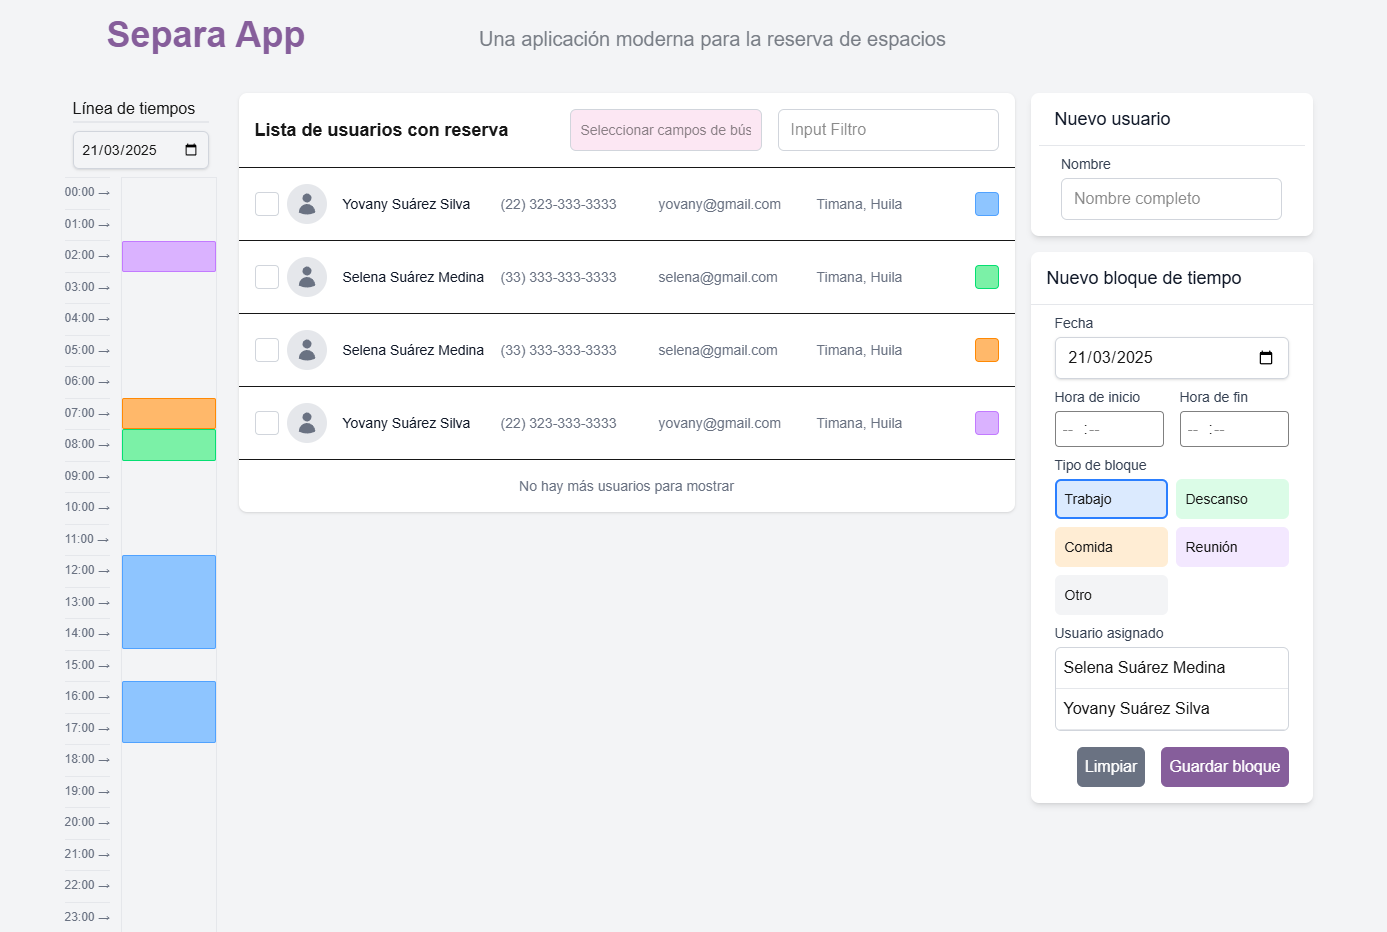
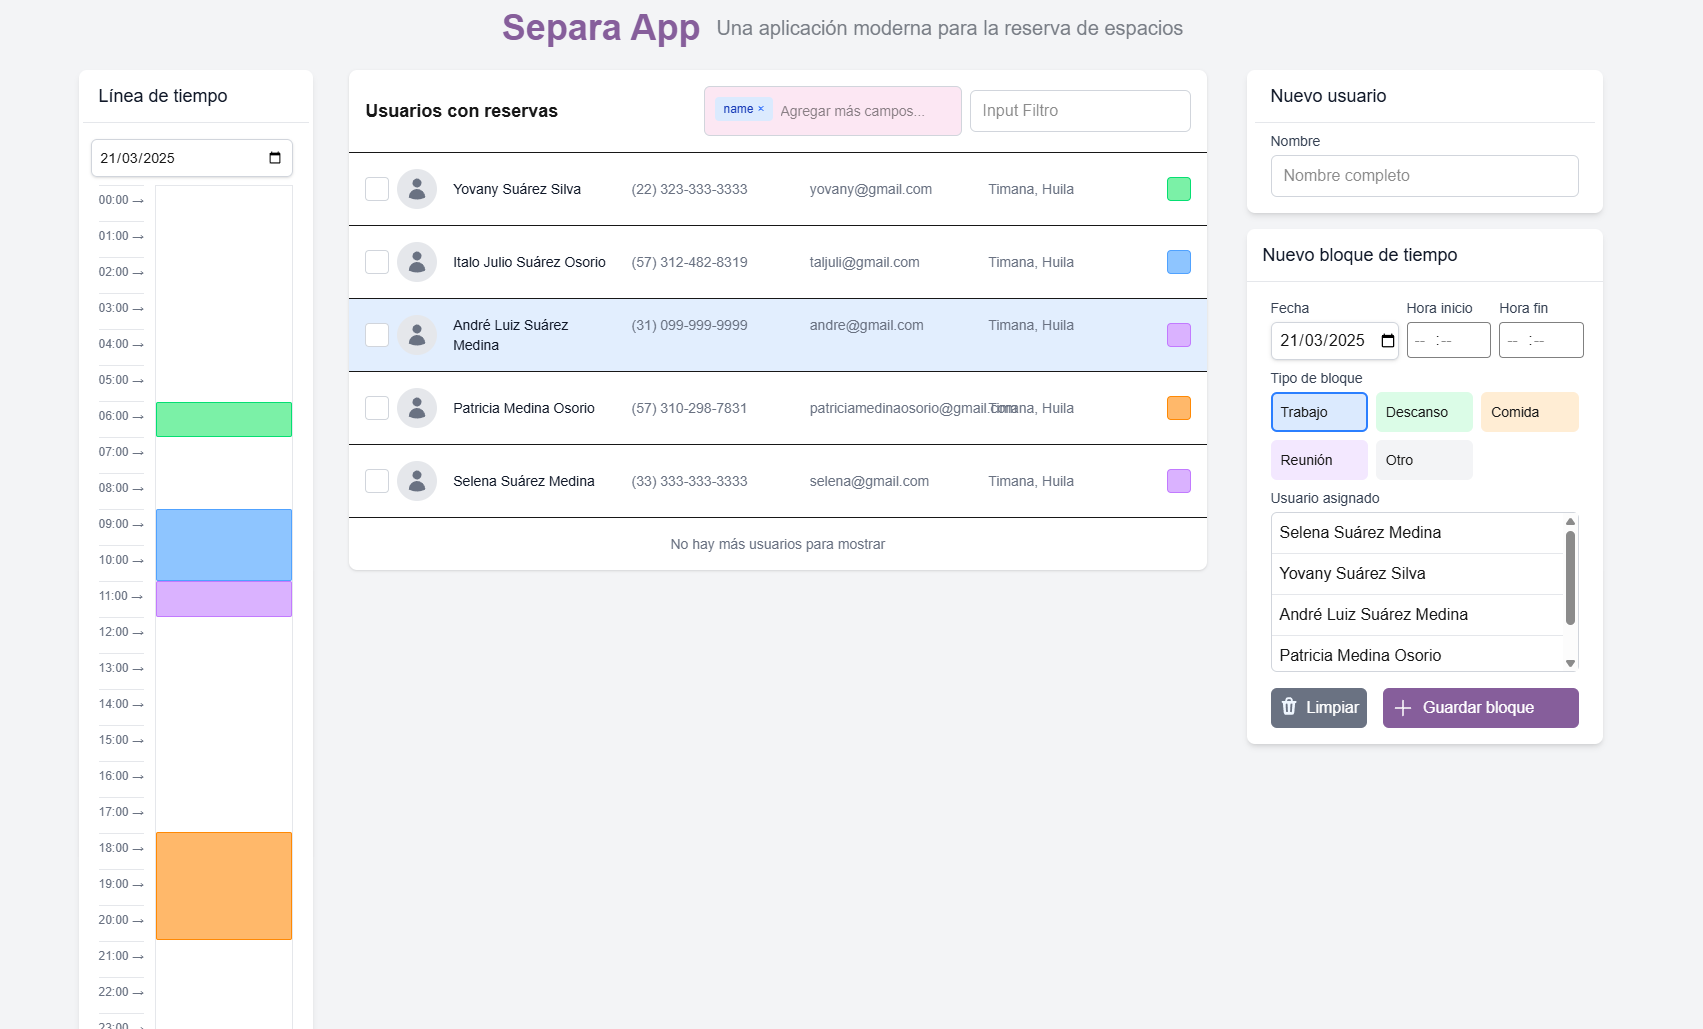
refactor: remove console logs and improve UI components
- Removed unnecessary console.log statements across multiple files to clean up the codebase.
- Enhanced UI components in NewUserForm, NewBlockForm, and TimelineBar for better user experience and responsiveness.
- Adjusted layout and styling in the dashboard page for improved readability and consistency.

diff --git a/src/components/dashboard/NewBlockForm.tsx b/src/components/dashboard/NewBlockForm.tsx
@@ -8,6 +8,9 @@ import 'react-clock/dist/Clock.css';
 import { getCurrentDate, combineDateAndTime, dateToLocalISOString, getNextDayDate } from '@/utils/dateUtils';
 import useUI from '@/context/UIContext';
 import Card from '../ui/Card';
+import { CheckIcon, PlusIcon } from '@heroicons/react/24/solid';
+import { TrashIcon } from '@heroicons/react/16/solid';
+import { DocumentPlusIcon } from '@heroicons/react/16/solid';
 
 interface FormData {
     startTime: string;
@@ -209,7 +212,6 @@ const NewBlockForm: React.FC = () => {
 
     const handleSubmit = async (e: React.FormEvent) => {
         e.preventDefault();
-        console.log('Formulario enviado');
 
         if (!validateForm()) {
             showNotification('Por favor, corrija los errores en el formulario', 'error');
@@ -229,7 +231,6 @@ const NewBlockForm: React.FC = () => {
                 style: formData.style
             };
 
-            console.log('Datos del bloque a crear:', blockData);
             await createBlock(blockData);
 
             showNotification('Bloque de tiempo creado exitosamente', 'success');
@@ -261,78 +262,92 @@ const NewBlockForm: React.FC = () => {
                 />
 
                 <form onSubmit={handleSubmit} className="space-y-2 px-2">
-
-
-                    <div className="flex space-x-2">
-                        <div className='flex-1'>
-                            <label htmlFor="date" className="block text-sm font-medium text-gray-700 mb-1">
-                                Fecha
-                            </label>
-                            <input
-                                type="date"
-                                id="date"
-                                name="date"
-                                value={formData.date}
-                                onChange={handleChange}
-                                className={`w-32 pl-2 mr-0 py-1.5 border ${errors.date ? 'border-red-500' : 'border-gray-300'} rounded-md shadow-sm focus:outline-none focus:ring-blue-500 focus:border-blue-500`}
-                            />
-                            {errors.date && <p className="mt-1 text-xs text-red-500">{errors.date}</p>}
+                    <div className="flex flex-col gap-2">
+                        <div className="flex justify-center md:hidden lg:hidden">
+                            <div className='w-full md:flex-1'>
+                                <label htmlFor="date" className="block text-sm font-medium text-gray-700 mb-1">
+                                    Fecha
+                                </label>
+                                <input
+                                    type="date"
+                                    id="date"
+                                    name="date"
+                                    value={formData.date}
+                                    onChange={handleChange}
+                                    className={`w-full md:w-32 pl-2 mr-0 py-1.5 border ${errors.date ? 'border-red-500' : 'border-gray-300'} rounded-md shadow-sm focus:outline-none focus:ring-blue-500 focus:border-blue-500`}
+                                />
+                                {errors.date && <p className="mt-1 text-xs text-red-500">{errors.date}</p>}
+                            </div>
                         </div>
 
-                        <div className="flex-1">
-                            <label htmlFor="startTime" className="block text-sm font-medium text-gray-700 mb-1">
-                                Hora inicio
-                            </label>
-                            <TimePicker
-                                onChange={(value) => {
-                                    handleChange({
-                                        target: { name: 'startTime', value: value ?? '' }
-                                    } as React.ChangeEvent<HTMLInputElement>);
+                        <div className="flex flex-row gap-2">
+                            <div className='hidden md:block flex-1'>
+                                <label htmlFor="date" className="block text-sm font-medium text-gray-700 mb-1">
+                                    Fecha
+                                </label>
+                                <input
+                                    type="date"
+                                    id="date"
+                                    name="date"
+                                    value={formData.date}
+                                    onChange={handleChange}
+                                    className={`w-32 pl-2 mr-0 py-1.5 border ${errors.date ? 'border-red-500' : 'border-gray-300'} rounded-md shadow-sm focus:outline-none focus:ring-blue-500 focus:border-blue-500`}
+                                />
+                                {errors.date && <p className="mt-1 text-xs text-red-500">{errors.date}</p>}
+                            </div>
 
-                                    // Si el valor tiene formato HH:mm (5 caracteres), mover el foco al siguiente campo
-                                    if (value && value.length === 5 && !isCurrentDate) {
-                                        // Usar setTimeout para asegurar que el cambio de estado se complete primero
-                                        setTimeout(() => {
-                                            if (endTimePickerRef.current) {
-                                                // Acceder al input dentro del componente TimePicker
-                                                const inputElement = endTimePickerRef.current.querySelector('input');
-                                                if (inputElement) {
-                                                    inputElement.focus();
-                                                }
-                                            }
-                                        }, 10);
-                                    }
-                                }}
-                                value={formData.startTime}
-                                format="HH:mm"
-                                disableClock={true}
-                                clearIcon={null}
-                                disabled={isCurrentDate}
-                                className={`${errors.startTime ? 'border-red-500' : 'border-gray-300'} ${isCurrentDate ? 'opacity-50 cursor-not-allowed' : ''}`}
-                            />
-                            {errors.startTime && <p className="mt-1 text-xs text-red-500">{errors.startTime}</p>}
-                        </div>
-
-                        <div className="flex-1">
-                            <label htmlFor="endTime" className="block text-sm font-medium text-gray-700 mb-1">
-                                Hora fin
-                            </label>
-                            <div ref={endTimePickerRef}>
+                            <div className="flex-1">
+                                <label htmlFor="startTime" className="block text-sm font-medium text-gray-700 mb-1">
+                                    Hora inicio
+                                </label>
                                 <TimePicker
                                     onChange={(value) => {
                                         handleChange({
-                                            target: { name: 'endTime', value: value ?? '' }
+                                            target: { name: 'startTime', value: value ?? '' }
                                         } as React.ChangeEvent<HTMLInputElement>);
+
+                                        if (value && value.length === 5 && !isCurrentDate) {
+                                            setTimeout(() => {
+                                                if (endTimePickerRef.current) {
+                                                    const inputElement = endTimePickerRef.current.querySelector('input');
+                                                    if (inputElement) {
+                                                        inputElement.focus();
+                                                    }
+                                                }
+                                            }, 10);
+                                        }
                                     }}
-                                    value={formData.endTime}
+                                    value={formData.startTime}
                                     format="HH:mm"
                                     disableClock={true}
                                     clearIcon={null}
                                     disabled={isCurrentDate}
-                                    className={`min-w-full ${errors.endTime ? 'border-red-500' : 'border-gray-300'} ${isCurrentDate ? 'opacity-50 cursor-not-allowed' : ''}`}
+                                    className={`${errors.startTime ? 'border-red-500' : 'border-gray-300'} ${isCurrentDate ? 'opacity-50 cursor-not-allowed' : ''}`}
                                 />
+                                {errors.startTime && <p className="mt-1 text-xs text-red-500">{errors.startTime}</p>}
                             </div>
-                            {errors.endTime && <p className="mt-1 text-xs text-red-500">{errors.endTime}</p>}
+
+                            <div className="flex-1">
+                                <label htmlFor="endTime" className="block text-sm font-medium text-gray-700 mb-1">
+                                    Hora fin
+                                </label>
+                                <div ref={endTimePickerRef}>
+                                    <TimePicker
+                                        onChange={(value) => {
+                                            handleChange({
+                                                target: { name: 'endTime', value: value ?? '' }
+                                            } as React.ChangeEvent<HTMLInputElement>);
+                                        }}
+                                        value={formData.endTime}
+                                        format="HH:mm"
+                                        disableClock={true}
+                                        clearIcon={null}
+                                        disabled={isCurrentDate}
+                                        className={`min-w-full ${errors.endTime ? 'border-red-500' : 'border-gray-300'} ${isCurrentDate ? 'opacity-50 cursor-not-allowed' : ''}`}
+                                    />
+                                </div>
+                                {errors.endTime && <p className="mt-1 text-xs text-red-500">{errors.endTime}</p>}
+                            </div>
                         </div>
                     </div>
 
@@ -340,7 +355,7 @@ const NewBlockForm: React.FC = () => {
                         <label htmlFor="style" className="block text-sm font-medium text-gray-700 mb-1">
                             Tipo de bloque
                         </label>
-                        <div className="grid grid-cols-2 gap-2 mb-2">
+                        <div className="grid grid-cols-3 gap-2 mb-2">
                             {blockStyles.map(style => (
                                 <div
                                     key={style.id}
@@ -367,9 +382,12 @@ const NewBlockForm: React.FC = () => {
                                     <div
                                         key={user._id}
                                         onClick={() => !isCurrentDate && handleUserSelect(user)}
-                                        className={`p-2 border-b border-gray-200 ${!isCurrentDate ? 'cursor-pointer hover:bg-gray-50' : 'cursor-not-allowed'} ${selectedUser?._id === user._id ? 'bg-blue-50' : ''}`}
+                                        className={`p-2 border-b border-gray-200 ${!isCurrentDate ? 'cursor-pointer hover:bg-gray-50' : 'cursor-not-allowed'} ${selectedUser?._id === user._id ? 'bg-blue-100' : ''} flex justify-between items-center`}
                                     >
                                         <div className="font-medium">{user.name}</div>
+                                        {selectedUser?._id === user._id && (
+                                            <CheckIcon className="h-5 w-5 text-green-600" />
+                                        )}
                                     </div>
                                 ))
                             )}
@@ -378,7 +396,7 @@ const NewBlockForm: React.FC = () => {
                     <div className="flex justify-end space-x-4 pt-2">
                         <button
                             type="button"
-                            className='p-2 rounded-md font-medium transition-colors focus:outline-none focus:ring-2 focus:ring-offset-2 bg-gray-500 hover:bg-gray-600 text-white bg-secondary hover:bg-secondary/90 focus:ring-secondary/50'
+                            className='relative flex p-2 rounded-md font-medium transition-colors focus:outline-none focus:ring-2 focus:ring-offset-2 bg-gray-500 hover:bg-gray-600 text-white bg-secondary hover:bg-secondary/90 focus:ring-secondary/50'
                             onClick={() => {
                                 setFormData({
                                     startTime: '',
@@ -391,13 +409,15 @@ const NewBlockForm: React.FC = () => {
                                 setErrors({});
                             }}
                         >
+                            <TrashIcon className="h-5 w-5 mr-2 text-blue-50" />
                             Limpiar
                         </button>
                         <button
                             type="submit"
-                            className={`p-2 rounded-md font-medium transition-colors focus:outline-none focus:ring-2 focus:ring-offset-2 bg-primary text-white hover:bg-primary/90 focus:ring-primary/50 cursor-pointer button-separa ${!isCurrentDate ? 'hover:bg-blue-600' : 'opacity-50 cursor-not-allowed'}`}
+                            className={`relative flex w-full p-2 rounded-md font-medium transition-colors focus:outline-none focus:ring-2 focus:ring-offset-2 bg-primary text-white hover:bg-primary/90 focus:ring-primary/50 cursor-pointer button-separa ${!isCurrentDate ? 'hover:bg-blue-600' : 'opacity-50 cursor-not-allowed'}`}
                             disabled={isSubmitting || isCurrentDate}
                         >
+                            {!isCurrentDate && <PlusIcon className="h-6 w-6 mr-2 text-white" />}
                             {isSubmitting ? (
                                 <>
                                     <svg className="animate-spin -ml-1 mr-2 h-4 w-4 text-white" xmlns="http://www.w3.org/2000/svg" fill="none" viewBox="0 0 24 24">
@@ -407,6 +427,7 @@ const NewBlockForm: React.FC = () => {
                                     Guardando...
                                 </>
                             ) : isCurrentDate ? 'No disponible' : 'Guardar bloque'}
+
                         </button>
                     </div>
                 </form>

diff --git a/src/components/dashboard/NewUserForm.tsx b/src/components/dashboard/NewUserForm.tsx
@@ -4,6 +4,9 @@ import React, { useState } from 'react';
 import { createUser, CreateUserData } from '@/services/api';
 import useUI from '@/context/UIContext';
 import Card from '../ui/Card';
+import { PlusIcon, TrashIcon } from '@heroicons/react/16/solid';
+import { StopIcon, WindowIcon } from '@heroicons/react/20/solid';
+import { ChevronDoubleUpIcon } from '@heroicons/react/16/solid';
 
 interface FormData {
     name: string;
@@ -253,7 +256,7 @@ const NewUserForm: React.FC = () => {
         <div className="min-w-full py-0 flex flex-col pt-8">
             <Card title="Nuevo usuario" className='mt-1 mx-2 px-2'>
                 <div className="flex flex-col items-center">
-                    <form onSubmit={handleSubmit} className="space-y-2 mx-0">
+                    <form onSubmit={handleSubmit} className="space-y-2 mx-0 min-w-full">
                         <div className="relative">
                             {errors.name && (
                                 <Tooltip message={errors.name} type="error" isVisible={true} />
@@ -327,14 +330,35 @@ const NewUserForm: React.FC = () => {
                                         <Tooltip message={errors.address} type="error" isVisible={true} />
                                     )}
                                 </div>
-
-                                <button
-                                    type="submit"
-                                    disabled={isSubmitting}
-                                    className="w-full cursor-pointer button-separa text-white font-medium py-2 px-4 rounded-md transition duration-300 ease-in-out focus:outline-none focus:ring-2 focus:ring-green-500 focus:ring-opacity-50 disabled:opacity-50"
-                                >
-                                    {isSubmitting ? 'Guardando...' : 'Guardar'}
-                                </button>
+                                <div className="flex justify-end space-x-4 pt-2">
+                                    <button
+                                        type="button"
+                                        className='relative flex p-2 rounded-md font-medium transition-colors focus:outline-none focus:ring-2 focus:ring-offset-2 bg-gray-500 hover:bg-gray-600 text-white bg-secondary hover:bg-secondary/90 focus:ring-secondary/50'
+                                        onClick={() => {
+                                            setFormData({
+                                                name: '',
+                                                phoneNumber: '',
+                                                email: '',
+                                                address: '',
+                                                password: '',
+                                                createdAt: new Date(),
+                                            });
+                                            setShowAdditionalFields(false);
+                                            setErrors({});
+                                        }}
+                                    >
+                                        <ChevronDoubleUpIcon className="h-5 w-5 mr-2 text-blue-50" />
+                                        Cancelar
+                                    </button>
+                                    <button
+                                        type="submit"
+                                        disabled={isSubmitting}
+                                        className="relative flex w-full cursor-pointer button-separa text-white font-medium py-2 px-4 rounded-md transition duration-300 ease-in-out focus:outline-none focus:ring-2 focus:ring-green-500 focus:ring-opacity-50 disabled:opacity-50"
+                                    >
+                                        {!isSubmitting && <PlusIcon className="h-6 w-6 mr-2 text-white" />}
+                                        {isSubmitting ? 'Guardando...' : 'Guardar'}
+                                    </button>
+                                </div>
                             </div>
                         )}
                     </form>

diff --git a/src/app/dashboard/page.tsx b/src/app/dashboard/page.tsx
@@ -7,14 +7,14 @@ import UserTable from '@/components/dashboard/UserTable';
 export default function GridExample() {
     return (
         <div className="bg-gray-100 dark:bg-gray-900 px-2 sm:px-4 lg:px-6 w-full">
-            <div className="w-full mx-auto max-w-screen-2xl">
+            <div className="w-full mx-auto max-w-screen-2xl mt-4">
                 <GridLayout
-                    header={<div className="h-20 items-center justify-center">
-                        <div className="grid flex-col items-center text-center">
-                            <h1 className="flex mt-6 text-4xl font-bold title-separa dark:text-white">
+                    header={<div className="h-auto items-center justify-center">
+                        <div className="flex flex-col md:flex-row items-center justify-center gap-2 md:gap-4 text-center">
+                            <h1 className="text-4xl font-bold title-separa dark:text-white">
                                 Separa App
                             </h1>
-                            <p className="flex-col text-xl -mt-8 subtitle-separa text-gray-600 dark:text-gray-300">
+                            <p className="text-xl subtitle-separa text-gray-600 dark:text-gray-300 md:mt-0">
                                 Una aplicación moderna para la reserva de espacios
                             </p>
                         </div>

diff --git a/src/components/dashboard/TimelineBar.tsx b/src/components/dashboard/TimelineBar.tsx
@@ -35,6 +35,12 @@ const TimelineBar: React.FC = () => {
     });
 
     useEffect(() => {
+        if (date) {
+            setSelectedDate(date);
+        }
+    }, [date, ui]);
+
+    useEffect(() => {
         const fetchTimeBlocks = async () => {
             try {
                 setLoading(true);
@@ -58,12 +64,6 @@ const TimelineBar: React.FC = () => {
         };
         fetchTimeBlocks();
     }, [selectedDate]);
-
-    useEffect(() => {
-        if (date) {
-            setSelectedDate(date);
-        }
-    }, [date]);
 
     return (
         <div className="min-w-full py-0 flex flex-col pt-8">
@@ -129,7 +129,7 @@ const TimelineBar: React.FC = () => {
                                             top: `${startPos}%`,
                                             height: `${height}%`,
                                         }}
-                                        title={`${block.attachedUser?.name}`}
+                                        title={`${block.attachedUser?.name} ${block.startTime}`}
                                     >
                                         <div className="text-xs px-1 font-semibold truncate" title={`${block.attachedUser?.name}`}></div>
                                     </div>

diff --git a/src/services/api.ts b/src/services/api.ts
@@ -144,7 +144,6 @@ export const getTimeBlocksByDate = async (date: string): Promise<TimeBlock[]> =>
   try {
     const response = await api.get(`/blocks/by-date?date=${date}&limit=24&page=1`);
     if (response.data.data.length > 0) {
-      console.log('response.data.data:', response.data.data);
       return response.data.data;
     } else {
       return [];
@@ -177,7 +176,6 @@ export const createUser = async (userData: CreateUserData): Promise<User> => {
  */
 export const createBlock = async (blockData: CreateBlockData): Promise<TimeBlock> => {
   try {
-    console.log('blockData:', blockData);
     const response = await api.post('/blocks', blockData);
     return response.data;
   } catch (error) {

diff --git a/src/components/dashboard/UserTable.tsx b/src/components/dashboard/UserTable.tsx
@@ -208,7 +208,6 @@ const UserTable: React.FC<UserTableProps> = ({ initialUsers = [] }) => {
                                 if (e.key === 'Enter') {
                                     setLoading(true);
                                     try {
-                                        console.log('Filtro aplicado:', filter, selectedFields, date);
                                         const filteredUsers = await getUsersWithReservations(filter, selectedFields, 1, 10, date);
                                         setUsers(filteredUsers);
                                         setHasMore(false);

diff --git a/src/utils/dateUtils.ts b/src/utils/dateUtils.ts
@@ -83,8 +83,6 @@ export const combineDateAndTime = (dateStr: string, timeStr: string): Date => {
  */
 export const dateToLocalISOString = (date: Date): string => {
     const pad = (num: number) => String(num).padStart(2, '0');
-    console.log(pad, date);
-
     return `${date.getFullYear()}-${pad(date.getMonth() + 1)}-${pad(date.getDate())}T${pad(date.getHours())}:${pad(date.getMinutes())}:${pad(date.getSeconds())}`;
 };
 
